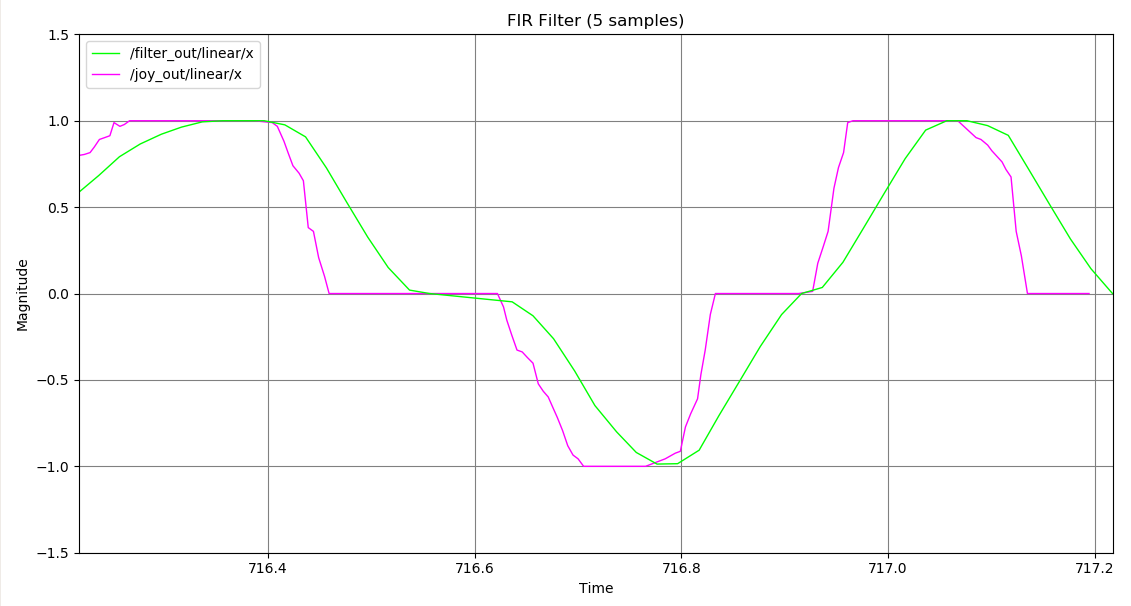
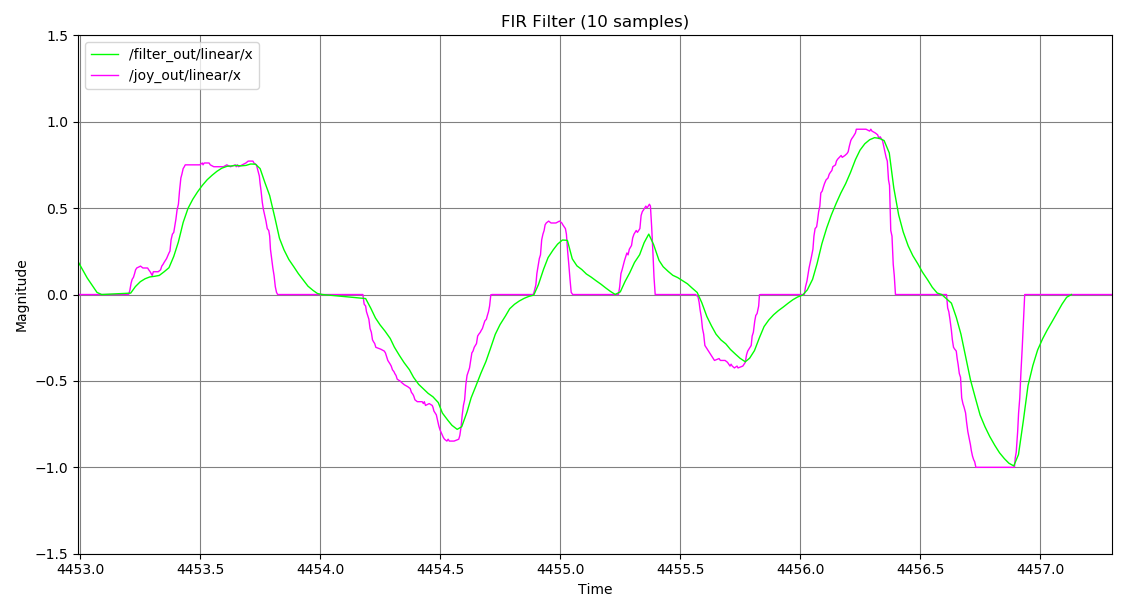
update pics and readme

diff --git a/README.md b/README.md
@@ -88,19 +88,19 @@ The following images are samples of the linear X component of an incoming signal
 
 #### Moving Average Filter
 
-Response from a 5-sample moving average filter. Input is in purple and output is in green.
+Response from a 10-sample moving average filter. Input is in purple and output is in green.
 
 ![MAF](img/maf.png)
 
 #### FIR Filter
 
-Response from a 5-sample FIR filter with the following weights: [0.3, 0.25, 0.15, 0.15, 0.1, 0.05]. Input is in purple and output is in green.
+Response from a 10-sample FIR filter with the following weights: [0.35, 0.15, 0.1, 0.1, 0.05, 0.05, 0.05, 0.05, 0.05, 0.05]. Input is in purple and output is in green.
 
 ![FIR](img/fir.png)
 
 #### IIR Filter
 
-Response from an IIR filter with a 10-sample input with the following weights: [0.35, 0.15, 0.1, 0.1, 0.05, 0.05, 0.05, 0.05, 0.05, 0.05]; and a 5-sample feedback output with the following weights: [0.1, 0.2, 0.2, 0.25, 0.25]. Input is in blue and output is in red.
+Response from an IIR filter with a 10-sample input with the following weights: [0.35, 0.15, 0.1, 0.1, 0.05, 0.05, 0.05, 0.05, 0.05, 0.05], and a 5-sample feedback output with the following weights: [0.1, 0.2, 0.2, 0.25, 0.25]. Input is in blue and output is in red.
 
 ![IIR](img/iir.png)
 
